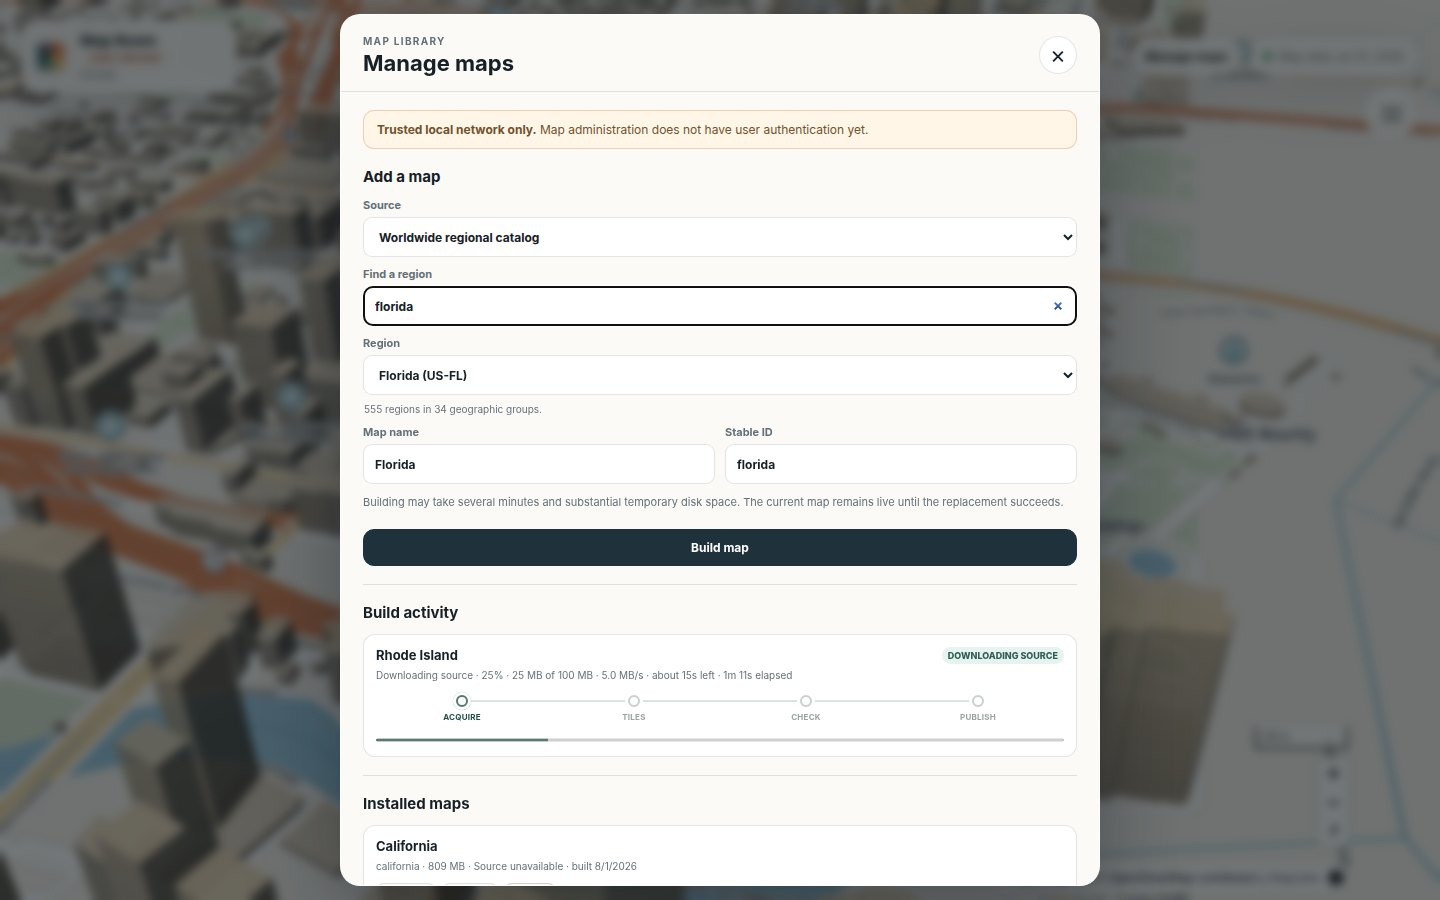
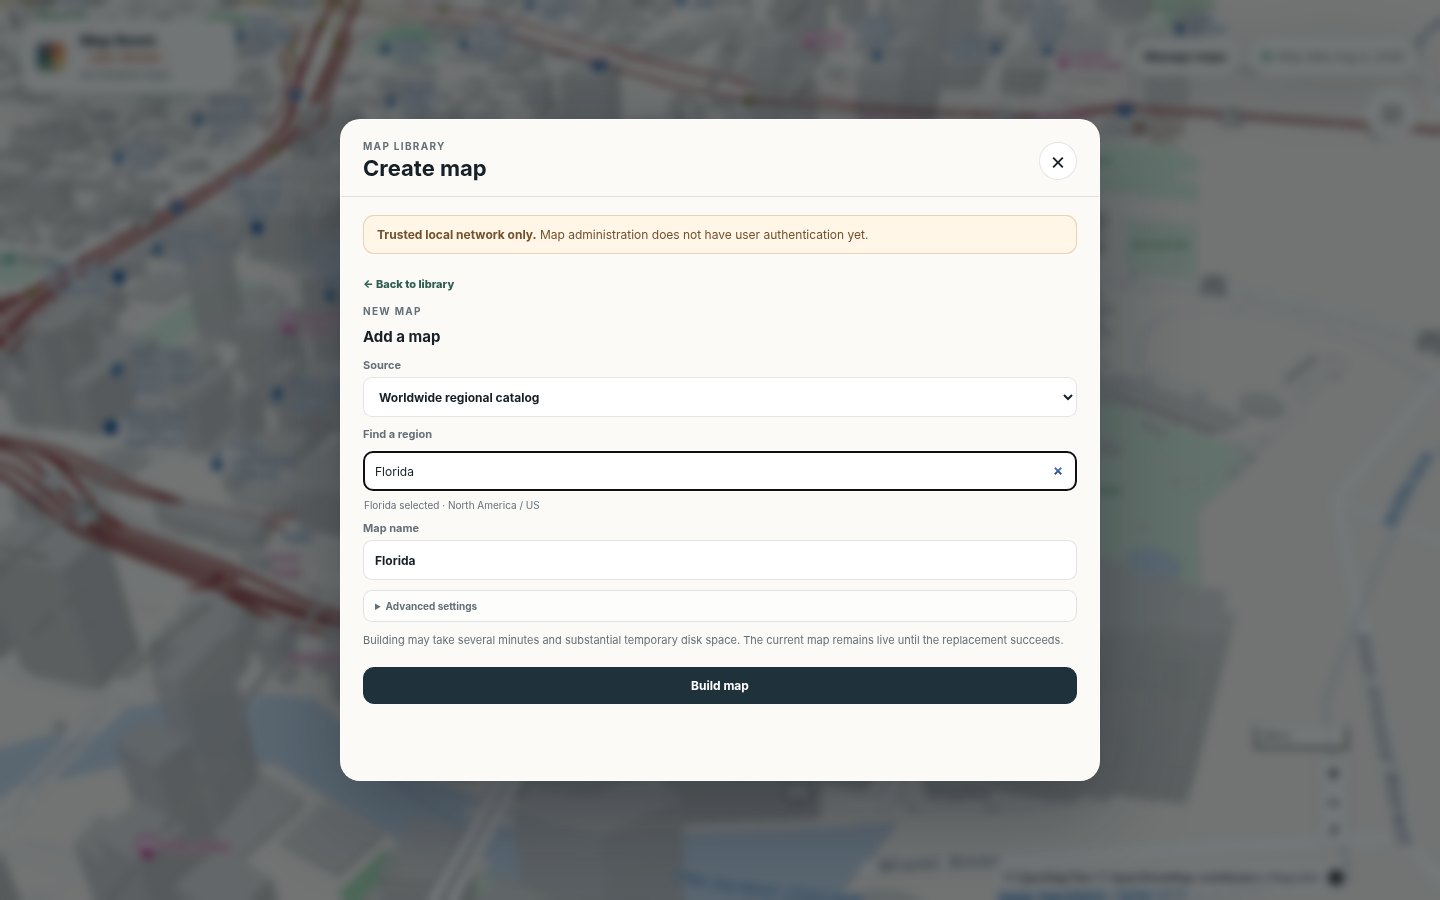
docs: capture the library and creation views separately
The manager now opens on the library and reaches creation through Add
map, so one screenshot can no longer show both. Repairs the capture
script, which also still clicked the buildings toggle removed when 3D
buildings became always-on, and keeps the creation status element in the
accessibility tree so its live region announces.

diff --git a/web/app.css b/web/app.css
@@ -233,7 +233,6 @@ button { font: inherit; }
 .job-actions { display: flex; justify-content: flex-end; margin-top: 8px; }
 .manager-status { min-height: 20px; margin: 0 22px 20px; color: #315e54; font-size: 11px; }
 .manager-status.create-status { min-height: 0; margin: 10px 0 0; }
-.manager-status.create-status:empty { display: none; }
 .maplibregl-ctrl-bottom-right { right: 82px; }
 html[data-controls-expanded="true"] .maplibregl-ctrl-bottom-right { right: 300px; }
 

diff --git a/README.md b/README.md
@@ -79,7 +79,9 @@ output.
 | --- | --- |
 | ![Daylight theme over downtown Miami](docs/screenshots/daylight-3d.jpg) | ![Florida displayed with the Dark Blue theme](docs/screenshots/dark-blue-theme.jpg) |
 
-![UI-driven map creation and installed-map management](docs/screenshots/map-management.jpg)
+| Installed-map library | Search-first map creation |
+| --- | --- |
+| ![The map library listing installed maps and build activity](docs/screenshots/map-library.jpg) | ![Creating a map by searching the worldwide region catalog](docs/screenshots/map-management.jpg) |
 
 The map manager reports each phase instead of leaving a long-running build as a
 black box:
